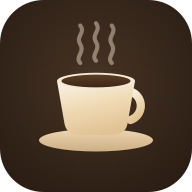
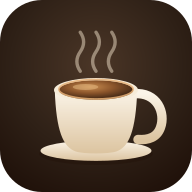
커피잔 중복(두 개) 제거 + 앱 아이콘 커피 강조 리디자인
- 인앱 인트로 스플래시 완전 제거: OS 실행 스플래시(앱 아이콘 커피잔)와 겹쳐
  진입 시 커피잔이 두 번 뜨던 문제 해소 → 커피잔은 아이콘 하나로 통일
- 진짜 첫 화면인 앱 아이콘(icon-512/192/64·apple-touch·maskable) 전면 교체:
  잔 속 커피를 에스프레소→크레마 radial로 크게·진하게 강조, 스팀·배경 브랜드 톤 통일

diff --git a/web/app/page.tsx b/web/app/page.tsx
@@ -560,15 +560,6 @@ export default function Home() {
   const anonRef = useRef("");
   // 랜딩/역할 분리 + 사장님 인증 + 뒤로가기 안내
   const [role, setRole] = useState<"consumer" | "owner" | null>(null);
-  // ☕ 첫 진입 인트로 스플래시 — 세션당 1번만(재진입 시 skip). SSR·클라 첫 렌더는 항상 '노출'로 일치시켜 하이드레이션 불일치 방지.
-  const [introSkip] = useState(() => {
-    if (typeof window === "undefined") return false; // SSR: 노출
-    try {
-      if (sessionStorage.getItem("dcn_intro_seen")) return true; // 이미 봤음 → skip
-      sessionStorage.setItem("dcn_intro_seen", "1");
-      return false; // 첫 진입 → 노출
-    } catch { return false; }
-  });
   const [ownerPwModal, setOwnerPwModal] = useState(false);
   const [ownerPw, setOwnerPw] = useState("");
   const [ownerErr, setOwnerErr] = useState("");
@@ -1285,79 +1276,6 @@ export default function Home() {
           .dcn-symbol { display:block; margin:0 auto 12px; animation: dcnFade .9s ease both, dcnFloat 6s ease-in-out .9s infinite, dcnSymHolo 9s ease-in-out infinite; }
           @media (prefers-reduced-motion: reduce) { .dcn-rise,.dcn-title { animation: dcnRise .01s both; } .dcn-title{ -webkit-text-fill-color:#f4ece0; color:#f4ece0; } .dcn-steam{ display:none; } .dcn-symbol{ animation: dcnFade .01s both; } }
         `}</style>
-        {/* ☕ 첫 진입 인트로 스플래시 — 랜딩과 같은 에스프레소 톤에서 커피잔+김이 피어오르고 워드마크가 떠오른 뒤 위로 자연스럽게 사라지며 랜딩으로 이어짐. 세션당 1회. */}
-        <div aria-hidden className={"dcn-intro" + (introSkip ? " dcn-intro-skip" : "")}>
-          <style>{`
-            @keyframes dcnIntroOut { 0%,68% { opacity:1; visibility:visible; } 100% { opacity:0; visibility:hidden; transform: translateY(-10px); } }
-            @keyframes dcnCupIn { 0% { opacity:0; transform: translateY(14px) scale(.86); } 60% { opacity:1; } 100% { opacity:1; transform: translateY(0) scale(1); } }
-            @keyframes dcnHaloPulse { 0%,100% { opacity:.35; transform: translate(-50%,-50%) scale(1); } 50% { opacity:.7; transform: translate(-50%,-50%) scale(1.12); } }
-            @keyframes dcnWordIn { 0% { opacity:0; transform: translateY(12px); } 100% { opacity:1; transform: translateY(0); } }
-            @keyframes dcnIntroSteam {
-              0%   { opacity:0; transform: translateY(4px) scaleX(.7); }
-              25%  { opacity:.55; }
-              60%  { transform: translateY(-20px) translateX(4px) scaleX(1.25); }
-              100% { opacity:0; transform: translateY(-42px) translateX(-3px) scaleX(1.5); }
-            }
-            .dcn-intro {
-              position:fixed; inset:0; z-index:9000; display:flex; flex-direction:column; align-items:center; justify-content:center; gap:26px;
-              background: radial-gradient(125% 85% at 50% -5%, #4a3526 0%, #3a2a1d 30%, #2b2018 60%, #241510 100%);
-              animation: dcnIntroOut 2.15s cubic-bezier(.4,0,.2,1) forwards;
-            }
-            .dcn-intro-skip { display:none; }
-            .dcn-intro-cup { position:relative; animation: dcnCupIn .8s cubic-bezier(.2,.7,.2,1) both; }
-            .dcn-intro-halo { position:absolute; left:50%; top:46%; width:260px; height:260px; transform:translate(-50%,-50%);
-              background: radial-gradient(circle, rgba(232,184,122,.5) 0%, rgba(232,184,122,0) 62%); filter:blur(2px);
-              animation: dcnHaloPulse 3s ease-in-out infinite; pointer-events:none; }
-            .dcn-intro-steam { position:absolute; top:6px; width:10px; height:30px; border-radius:50%;
-              background: linear-gradient(to top, rgba(244,236,224,0), rgba(244,236,224,.6)); filter: blur(5px); opacity:0; }
-            .dcn-is1 { left:38%; animation: dcnIntroSteam 3.2s ease-in-out .5s infinite; }
-            .dcn-is2 { left:50%; animation: dcnIntroSteam 3.6s ease-in-out .9s infinite; }
-            .dcn-is3 { left:62%; animation: dcnIntroSteam 3.4s ease-in-out 1.3s infinite; }
-            .dcn-intro-word { animation: dcnWordIn .7s cubic-bezier(.2,.7,.2,1) .45s both; text-align:center; }
-            @media (prefers-reduced-motion: reduce) {
-              .dcn-intro { animation: dcnIntroOut 1.4s linear forwards; }
-              .dcn-intro-cup,.dcn-intro-word { animation: none; } .dcn-intro-steam { display:none; }
-            }
-          `}</style>
-          <div className="dcn-intro-cup">
-            <div className="dcn-intro-halo" />
-            <span className="dcn-intro-steam dcn-is1" />
-            <span className="dcn-intro-steam dcn-is2" />
-            <span className="dcn-intro-steam dcn-is3" />
-            {/* ☕ 글자 없이 커피잔만 — 잔 속 '커피'를 히어로로 크게·진하게 강조 */}
-            <svg width="188" height="176" viewBox="0 0 160 150" fill="none" style={{ position: "relative", display: "block" }}>
-              <defs>
-                <linearGradient id="dcnPorcelain" x1="0" y1="0" x2="0" y2="1">
-                  <stop offset="0" stopColor="#fbf4e8" /><stop offset="1" stopColor="#e0cba6" />
-                </linearGradient>
-                {/* 커피(크레마): 가장자리 밝은 크레마 → 중심 깊은 에스프레소, 리치한 톤 */}
-                <radialGradient id="dcnCoffee" cx="0.42" cy="0.36" r="0.75">
-                  <stop offset="0" stopColor="#c68a4e" />
-                  <stop offset="0.45" stopColor="#8a542a" />
-                  <stop offset="0.8" stopColor="#4e2f18" />
-                  <stop offset="1" stopColor="#3a2010" />
-                </radialGradient>
-              </defs>
-              {/* 받침 */}
-              <ellipse cx="80" cy="124" rx="58" ry="11.5" fill="#3a2a1d" opacity="0.5" />
-              <ellipse cx="80" cy="121" rx="56" ry="10.5" fill="url(#dcnPorcelain)" />
-              {/* 손잡이 */}
-              <path d="M120 64c21-4 30 9 25 23-3 12-16 17-27 14" stroke="url(#dcnPorcelain)" strokeWidth="9" fill="none" strokeLinecap="round" />
-              {/* 잔 몸통 */}
-              <path d="M40 60c0 0 3 46 10.5 53 5 5 21 8.5 29.5 8.5s24.5-3.5 29.5-8.5c7.5-7 10.5-53 10.5-53z" fill="url(#dcnPorcelain)" />
-              {/* 잔 테두리(도자기 림) */}
-              <ellipse cx="80" cy="60" rx="42" ry="12" fill="#f6ecd9" />
-              {/* ★ 커피 표면 — 크게·진하게(히어로) */}
-              <ellipse cx="80" cy="60" rx="37" ry="9.6" fill="url(#dcnCoffee)" />
-              {/* 크레마 림(가장자리 밝은 거품 테) */}
-              <ellipse cx="80" cy="59.4" rx="37" ry="9.6" fill="none" stroke="#e6b077" strokeWidth="1.8" opacity="0.8" />
-              {/* 크레마 하이라이트(윤기) */}
-              <ellipse cx="70" cy="56.5" rx="13" ry="3.1" fill="#e8bd86" opacity="0.55" />
-              <ellipse cx="88" cy="62" rx="7" ry="1.6" fill="#7a4a26" opacity="0.5" />
-            </svg>
-          </div>
-        </div>
-
         <div className="dcn-cup mb-5">
           <h1 className="dcn-title text-[2.9rem] sm:text-[3.3rem] leading-[1.12] font-bold tracking-tight">동네 커피 노트</h1>
         </div>
